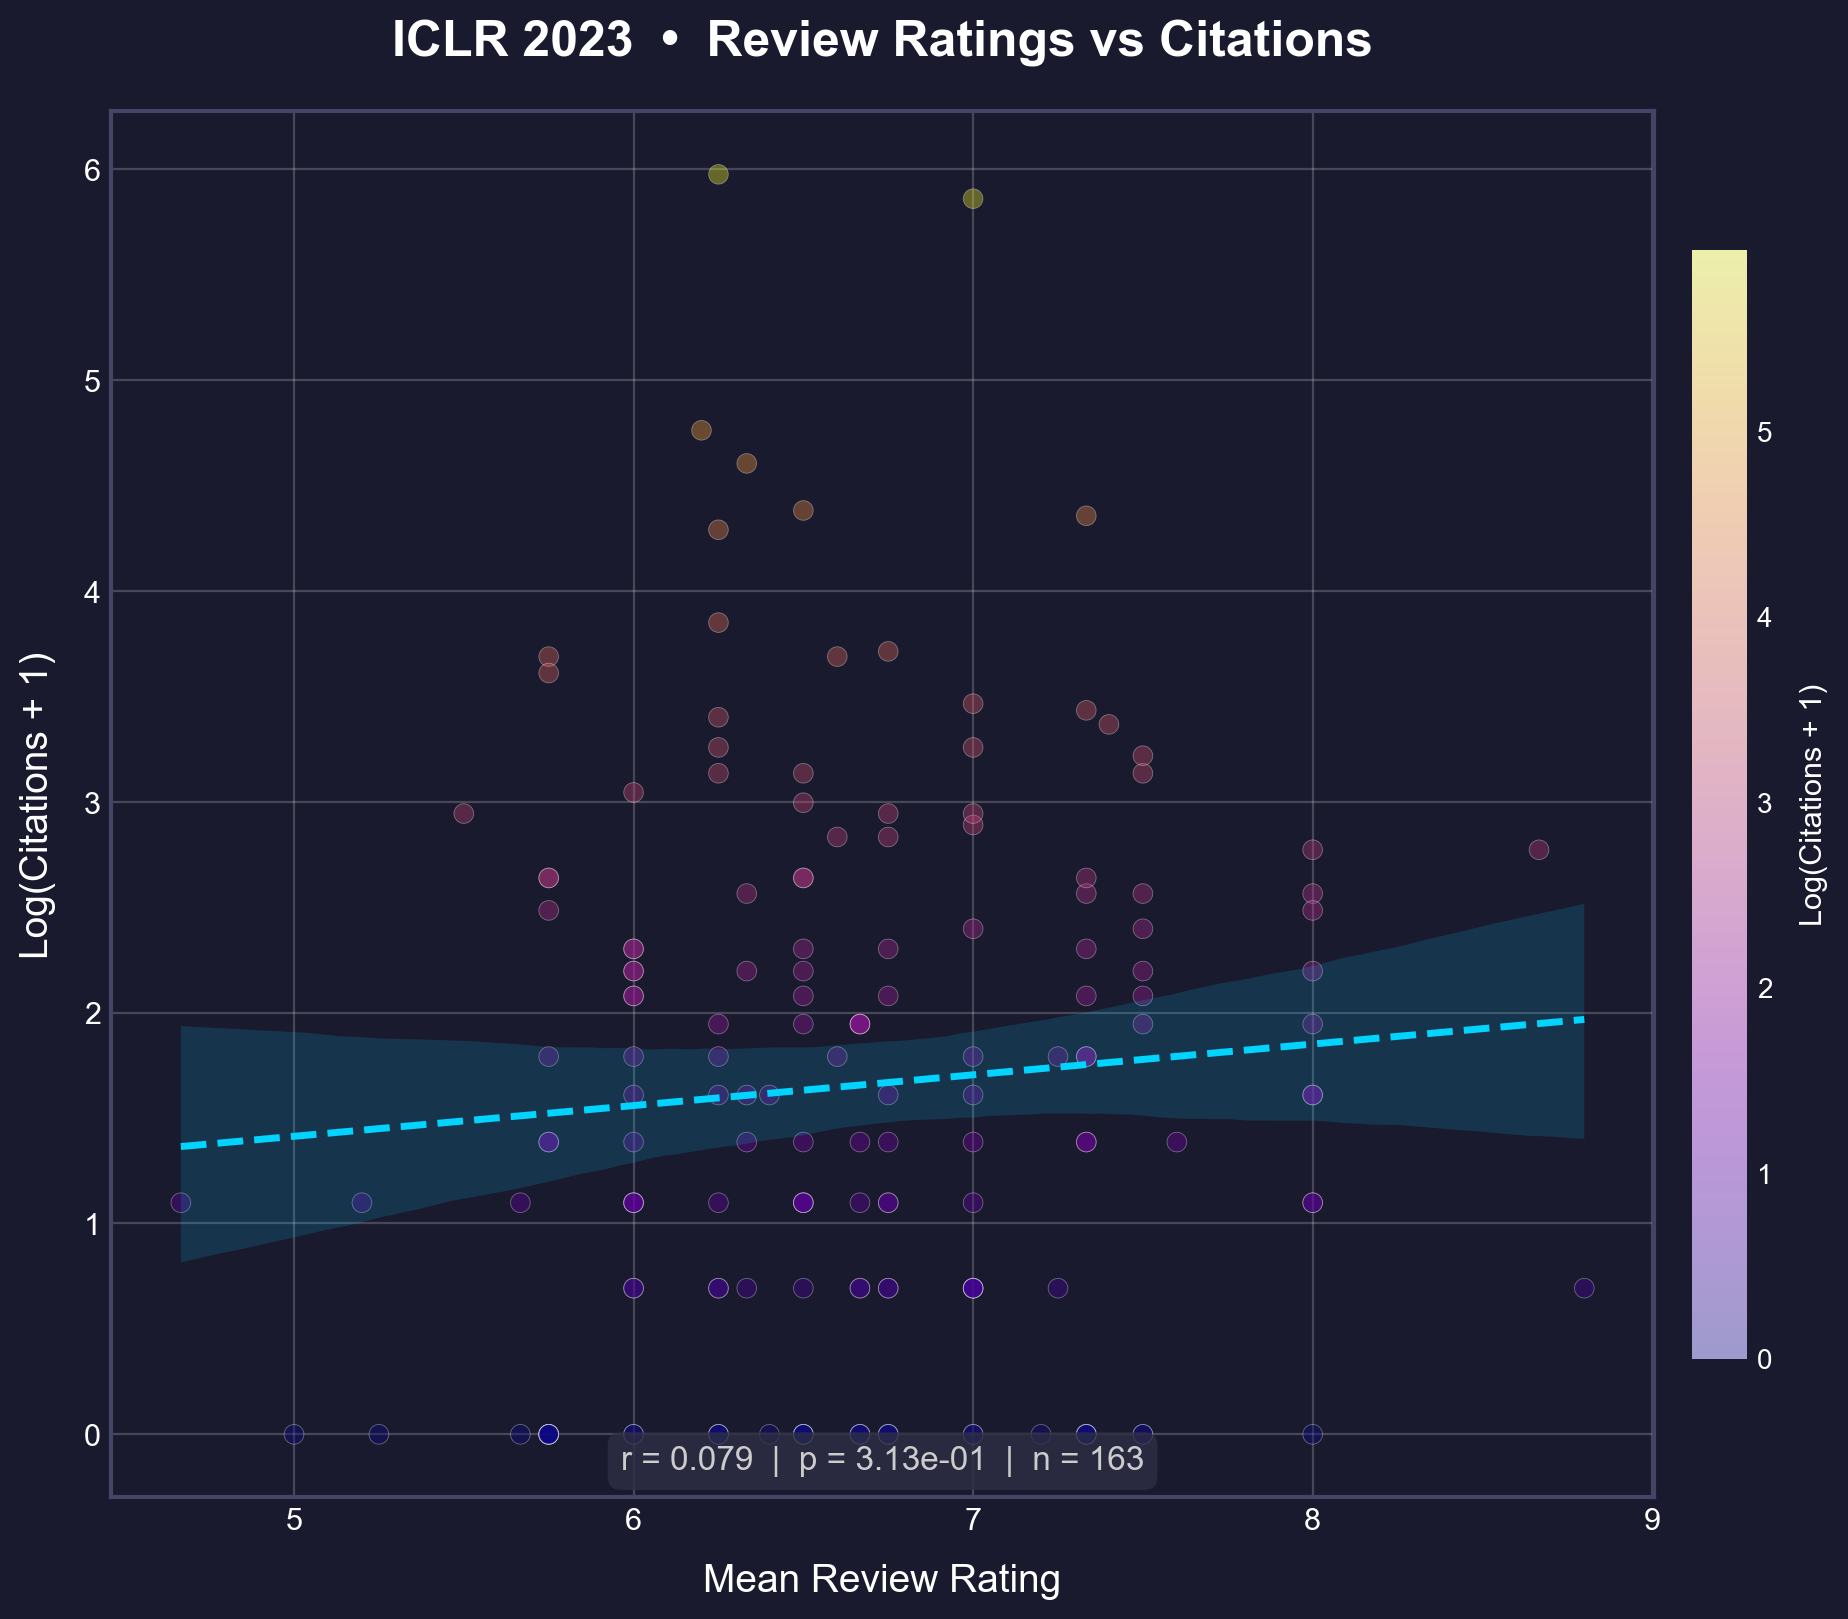
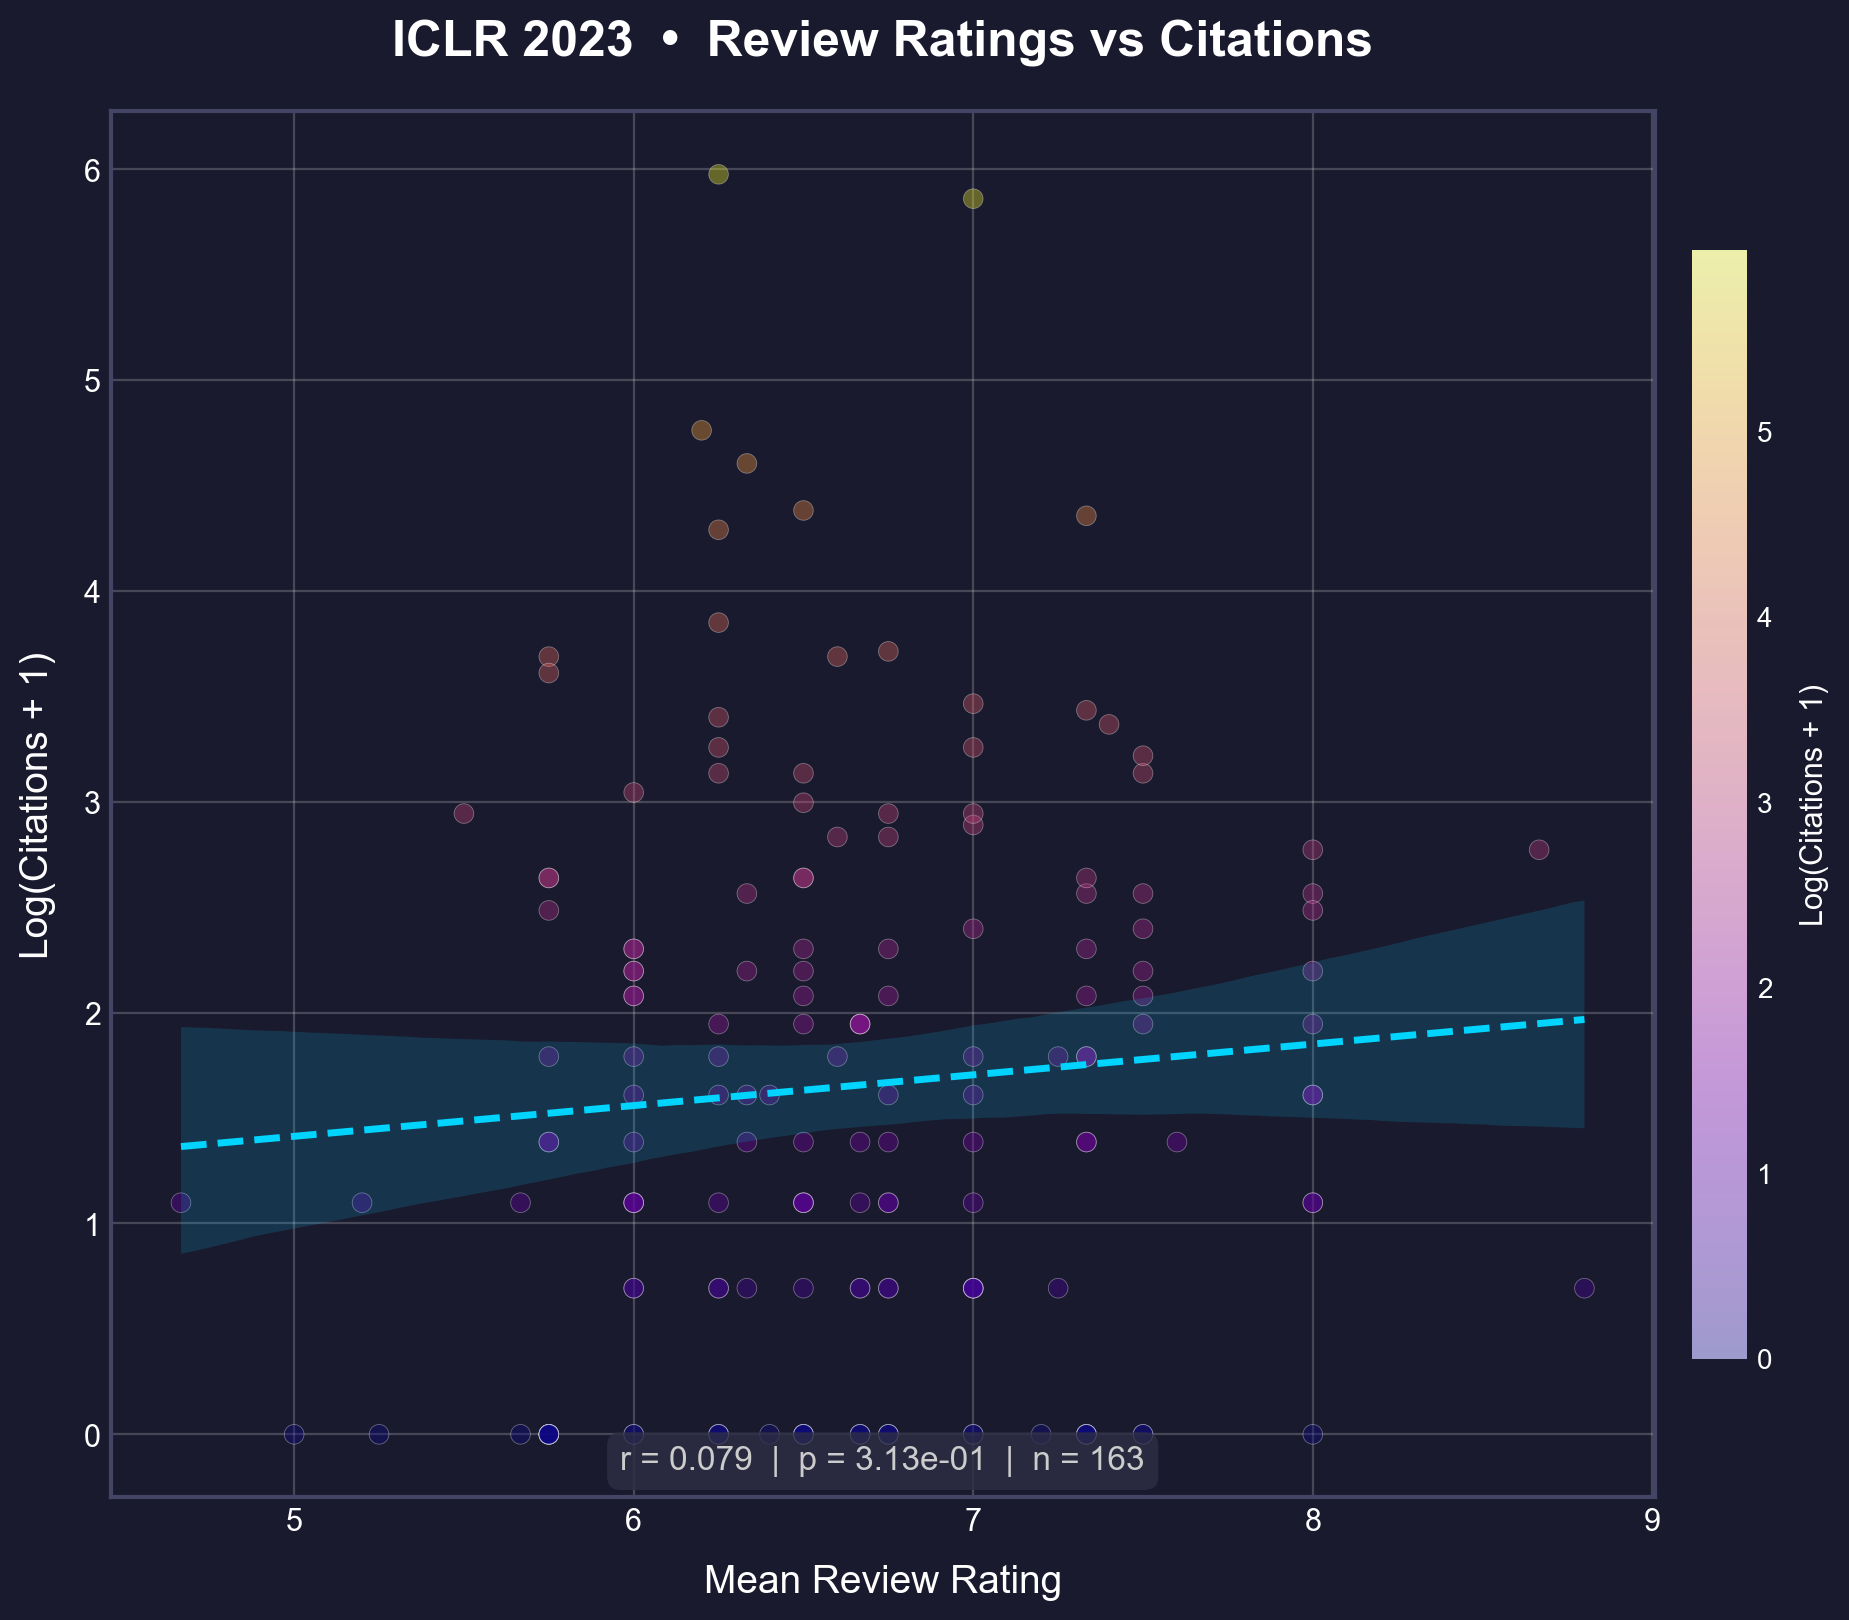
FIX: data

diff --git a/analysis/correlation/analyze_correlation.py b/analysis/correlation/analyze_correlation.py
@@ -148,14 +148,14 @@ def print_summary(df: pd.DataFrame, year: int):
         print(f"  p = {p_value:.3e}")
 
 
-def main():
+def main(year):
     parser = argparse.ArgumentParser(description="Analyze ratings vs citations")
-    parser.add_argument(
-        "--year",
-        type=int,
-        required=True,
-        help="ICLR year to analyze",
-    )
+    # parser.add_argument(
+    #     "--year",
+    #     type=int,
+    #     required=True,
+    #     help="ICLR year to analyze",
+    # )
     parser.add_argument(
         "--data-dir",
         type=Path,
@@ -178,7 +178,7 @@ def main():
 
     # Determine paths based on new structure
     repo_root = Path(__file__).resolve().parents[2]
-    data_dir = args.data_dir or repo_root / "data" / f"ICLR{args.year}"
+    data_dir = args.data_dir or repo_root / "data" / f"ICLR{year}"
     # Default output is current directory's figs subdir
     output_dir = args.output or Path(__file__).parent / "figs"
 
@@ -187,9 +187,10 @@ def main():
         return
 
     df = load_data(data_dir)
-    print_summary(df, args.year)
-    plot_correlation(df, args.year, output_dir, args.min_rating)
+    print_summary(df, year)
+    plot_correlation(df, year, output_dir, args.min_rating)
 
 
 if __name__ == "__main__":
-    main()
+    for x in range(2017, 2024):
+        main(x)

diff --git a/readme.md b/readme.md
@@ -22,27 +22,31 @@ This analysis investigates whether peer review scores on OpenReview effectively 
 
 **The correlation between review ratings and citations has been declining over time:**
 
-| Year | Papers | Pearson (r) |
-|------|--------|-------------|
-| 2017 | 245 | 0.37 |
-| 2018 | 425 | 0.29 |
-| 2019 | 502 | 0.17 |
-| 2020 | 687 | 0.12 |
-| 2021 | 865 | 0.13 |
-| 2022 | 1094 | 0.13 |
+| Year | Pearson (r) |
+|------|-------------|
+| 2017 | 0.153 |
+| 2018 | 0.209 |
+| 2019 | 0.170 |
+| 2020 | 0.114 |
+| 2021 | 0.111 |
+| 2022 | 0.128 |
+| 2023 | 0.079 |
 
 <table>
   <tr>
-    <td><img src="figs/Log_Citation_vs_Review_Rating_ICLR_2017.png" width="400"/></td>
-    <td><img src="figs/Log_Citation_vs_Review_Rating_ICLR_2018.png" width="400"/></td>
+    <td><img src="analysis/correlation/figs/Log_Citation_vs_Review_Rating_ICLR_2017.png" width="400"/></td>
+    <td><img src="analysis/correlation/figs/Log_Citation_vs_Review_Rating_ICLR_2018.png" width="400"/></td>
   </tr>
   <tr>
-    <td><img src="figs/Log_Citation_vs_Review_Rating_ICLR_2019.png" width="400"/></td>
-    <td><img src="figs/Log_Citation_vs_Review_Rating_ICLR_2020.png" width="400"/></td>
+    <td><img src="analysis/correlation/figs/Log_Citation_vs_Review_Rating_ICLR_2019.png" width="400"/></td>
+    <td><img src="analysis/correlation/figs/Log_Citation_vs_Review_Rating_ICLR_2020.png" width="400"/></td>
   </tr>
   <tr>
-    <td><img src="figs/Log_Citation_vs_Review_Rating_ICLR_2021.png" width="400"/></td>
-    <td><img src="figs/Log_Citation_vs_Review_Rating_ICLR_2022.png" width="400"/></td>
+    <td><img src="analysis/correlation/figs/Log_Citation_vs_Review_Rating_ICLR_2021.png" width="400"/></td>
+    <td><img src="analysis/correlation/figs/Log_Citation_vs_Review_Rating_ICLR_2022.png" width="400"/></td>
+  </tr>
+  <tr>
+    <td><img src="analysis/correlation/figs/Log_Citation_vs_Review_Rating_ICLR_2023.png" width="400"/></td>
   </tr>
 </table>
 
